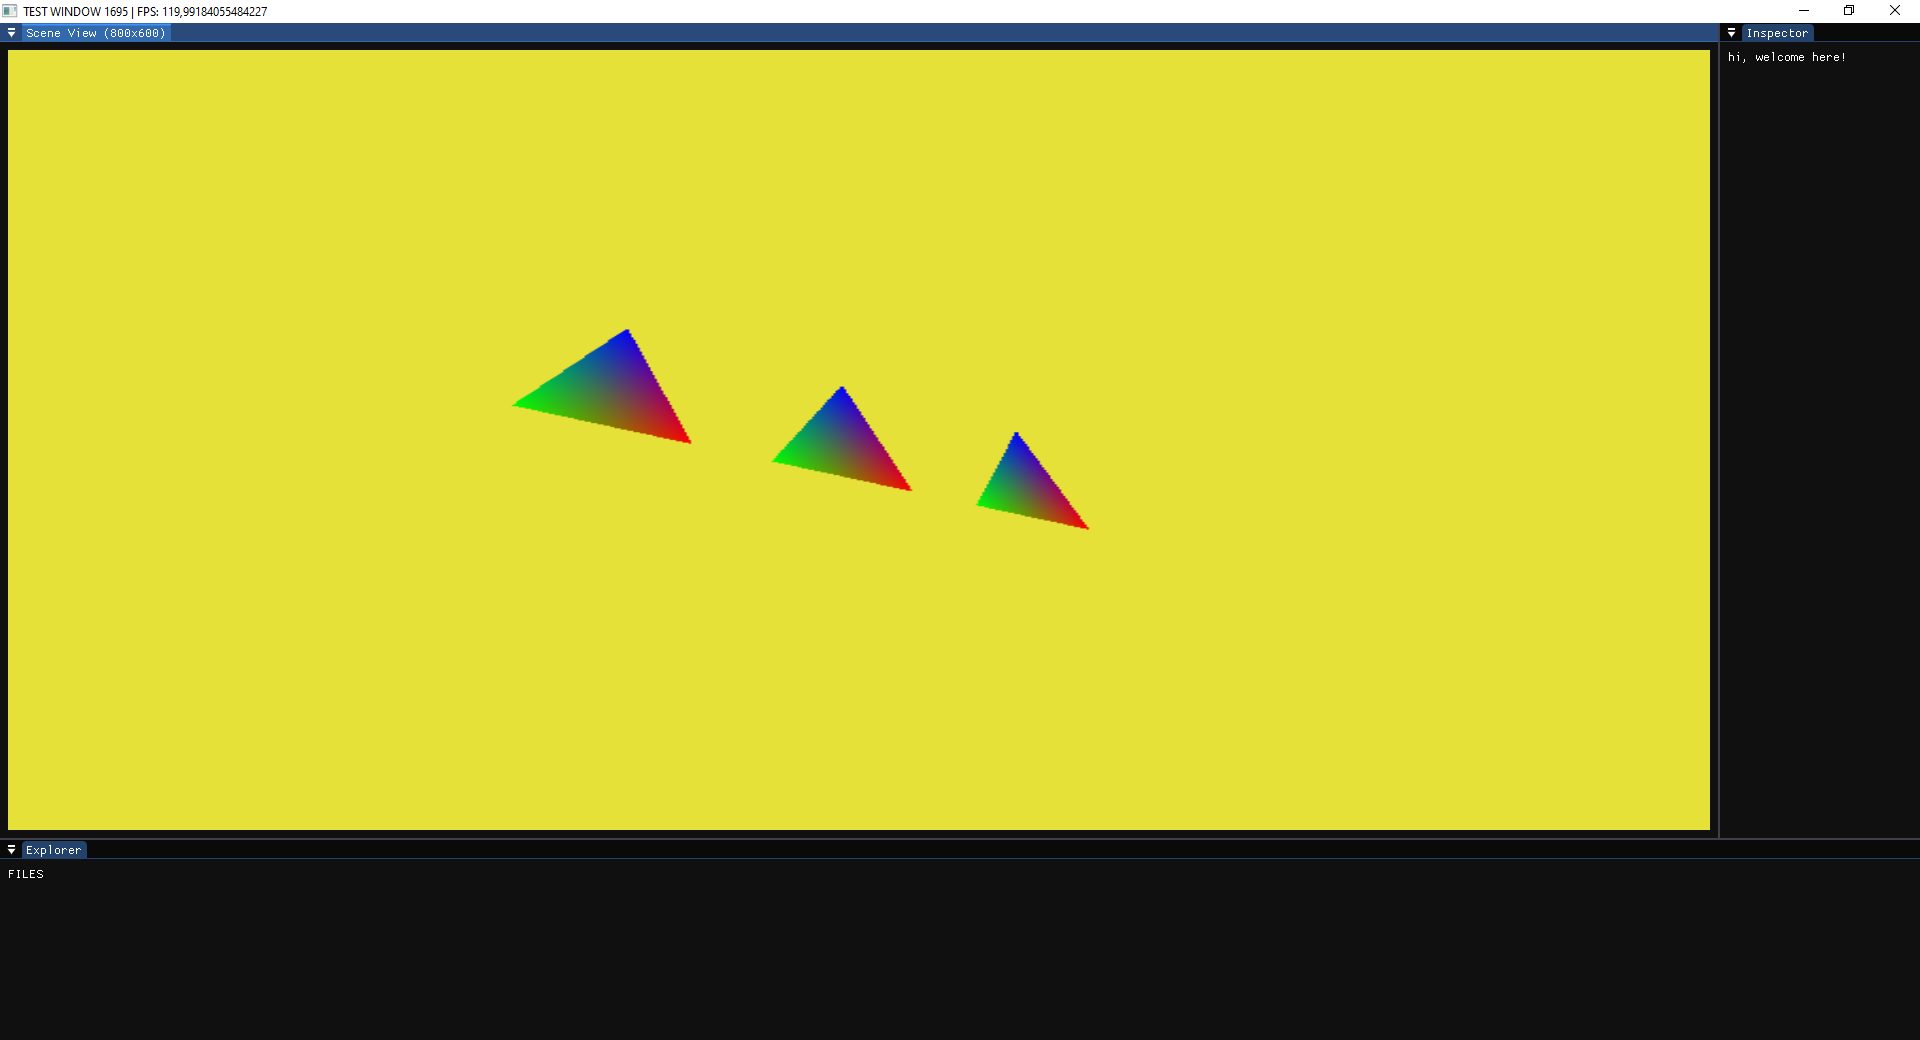
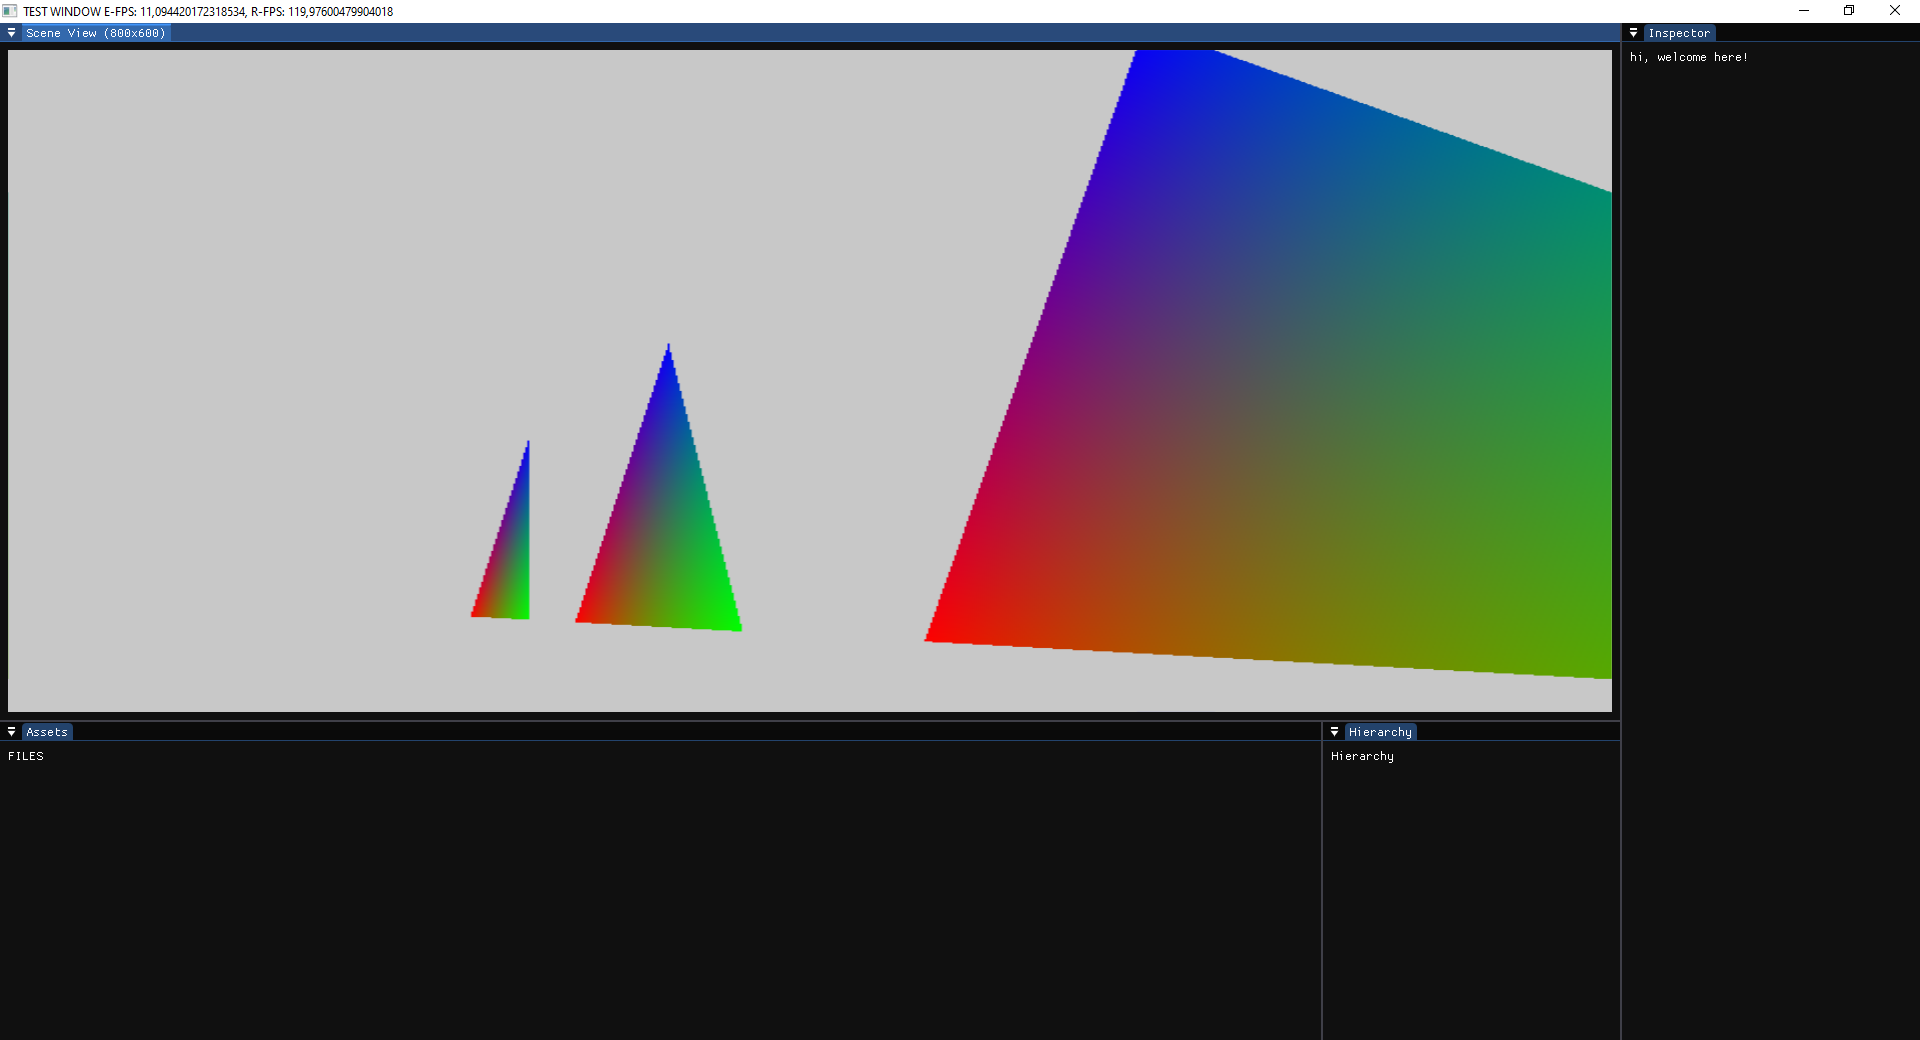
Управление камерой

diff --git a/WoowzEngine/WoowzEngineEditor/WEE/Interface.cs b/WoowzEngine/WoowzEngineEditor/WEE/Interface.cs
@@ -1,7 +1,5 @@
-using System.Numerics;
-using ImGuiNET;
+using ImGuiNET;
 using WLO.Interface;
-using WLO.Math;
 
 namespace WEE;
 
@@ -19,41 +17,56 @@ public static class Interface{
     
     // ----------------------------------------------------------------------
 
-    public static GLImGUI ImGUI;
+    public static GLImGUI ImGUI{ get; private set; } = null!;
 
-    public static Vector2I SceneViewport;
+    public static bool FocusSceneView{ get; private set; }
 
-    private static void StartUpdate(){
-        
-    }
-    
-    private static bool __FirstTime = true;
-    public static void Update(){
-        ImGUI.FrameStart(WEE.Cycle.DT, WEE.Window.MainWindow.Size);
-
-        ImGui.DockSpaceOverViewport();
-        
-        if(__FirstTime){ StartUpdate(); __FirstTime = false; }
-        
-        ImGui.SetNextWindowSize(new Vector2(800, 600), ImGuiCond.FirstUseEver);
+    private static void Update_SceneView(){
+        ImGui.SetNextWindowSize(new System.Numerics.Vector2(800, 600), ImGuiCond.FirstUseEver);
         ImGui.Begin("Scene View (800x600)");
 
-            System.Numerics.Vector2 __SceneViewport = ImGui.GetContentRegionAvail();
-            SceneViewport = new Vector2I((int)__SceneViewport.X, (int)__SceneViewport.Y);
+            FocusSceneView = ImGui.IsWindowFocused(ImGuiFocusedFlags.RootAndChildWindows);
             
+            System.Numerics.Vector2 __SceneViewport = ImGui.GetContentRegionAvail();
+                
             ImGui.Image((IntPtr)WEE.Render.SceneFramebuffer.ID, __SceneViewport, new System.Numerics.Vector2(0, 1), new System.Numerics.Vector2(1, 0));
         
         ImGui.End();
+    }
 
-        ImGui.SetNextWindowSize(new Vector2(200, 600), ImGuiCond.FirstUseEver);
+    private static void Update_Inspector(){
+        ImGui.SetNextWindowSize(new System.Numerics.Vector2(200, 300), ImGuiCond.FirstUseEver);
         ImGui.Begin("Inspector");
-            ImGui.Text("hi, welcome here!");
+         ImGui.Text("hi, welcome here!");
         ImGui.End();
-        
-        ImGui.SetNextWindowSize(new Vector2(800, 200), ImGuiCond.FirstUseEver);
-        ImGui.Begin("Explorer");
+    }
+    
+    private static void Update_Hierarchy(){
+        ImGui.SetNextWindowSize(new System.Numerics.Vector2(200, 300), ImGuiCond.FirstUseEver);
+        ImGui.Begin("Hierarchy");
+            ImGui.Text("Hierarchy");
+        ImGui.End();
+    }
+    
+    private static void Update_Assets(){
+        ImGui.SetNextWindowSize(new System.Numerics.Vector2(800, 200), ImGuiCond.FirstUseEver);
+        ImGui.Begin("Assets");
             ImGui.Text("FILES");
         ImGui.End();
+    }
+    
+    public static void Update(){
+        ImGUI.FrameStart(WEE.Cycle.Render_DT, WEE.Window.MainWindow.Size);
+
+        ImGui.DockSpaceOverViewport();
+        
+        Update_SceneView();
+        
+        Update_Inspector();
+
+        Update_Hierarchy();
+        
+        Update_Assets();
         
         ImGUI.FrameEnd();
     }

diff --git a/WoowzEngine/WoowzEngineEditor/WEE/Cycle.cs b/WoowzEngine/WoowzEngineEditor/WEE/Cycle.cs
@@ -15,25 +15,39 @@ public static class Cycle{
         try{
             WEE.Window.MainWindow.PollEvents();
             
+            if(WL.Thread.LimitByFPS(30, ref __DTI)){
+                Engine_DTI = __DTI!.Value;
+                CycleEngine();
+            }
+            
             if(WL.Thread.LimitByFPS(120, ref __DTI)){
-                DTI = __DTI!.Value;
-                CycleFixed();
+                Render_DTI = __DTI!.Value;
+                CycleRender();
             }
         }catch(Exception e){
             throw new ExceptionWEE("Произошла ошибка в главном цикле!", e);
         }
     }
 
-    public static void CycleFixed(){
+    public static void CycleEngine(){
         try{
+            
+        }catch(Exception e){
+            throw new ExceptionWEE("Произошла ошибка в ENGINE цикле!", e);
+        }
+    }
+    
+    public static void CycleRender(){
+        try{
+            WEE.Editor.UpdateSceneView();
+            
             WEE.Window.MainWindow.PollEvents2();
 
-            DT = (float)DTI.DT;
+            Render_DT = (float)Render_DTI.DT;
 
-            TotalFrames++;
-            Time += DT;
+            Render_Time += Render_DT;
 
-            WEE.Window.MainWindow.Title = $"TEST WINDOW {TotalFrames} | FPS: {DTI.FPS}";
+            WEE.Window.MainWindow.Title = $"TEST WINDOW E-FPS: {Engine_DTI.FPS}, R-FPS: {Render_DTI.FPS}";
             
             WEE.Interface.Update();
             
@@ -41,15 +55,16 @@ public static class Cycle{
             
             WEE.Window.MainWindow.SwapBuffers();
         }catch(Exception e){
-            throw new ExceptionWEE("Произошла ошибка в зафиксированном цикле!", e);
+            throw new ExceptionWEE("Произошла ошибка в RENDER цикле!", e);
         }
     }
     
     // ----------------------------------------------------------------------
 
-    public static DeltaTimeInfo DTI;
-    public static float         DT;
+    public static DeltaTimeInfo Render_DTI;
+    public static DeltaTimeInfo Engine_DTI;
     
-    public static int           TotalFrames;
-    public static float         Time;
+    public static float         Render_DT;
+    
+    public static float         Render_Time;
 }

diff --git a/WoowzEngine/WoowzEngineEditor/WEE/Render.cs b/WoowzEngine/WoowzEngineEditor/WEE/Render.cs
@@ -34,7 +34,7 @@ public static class Render{
         
         WE.Render.API.FrameStart();
             
-            WE.Render.API.Clear(new Color4B((byte)Random.Shared.Next(0, 255), (byte)Random.Shared.Next(0, 255), (byte)Random.Shared.Next(0, 255)));
+            WE.Render.API.Clear(new Color4B(200, 200, 200));
                 
             __RENDERTESTRENDER();
             
@@ -65,7 +65,6 @@ public static class Render{
     // TODO, TEST RENDER
 
     private static Scene  __SCENE;
-    private static Camera __CAMERA;
     
     private static GLProgram __PROGRAM;
     private static GLMesh    __MESH;
@@ -75,8 +74,6 @@ public static class Render{
     
     public static void __STARTTESTRENDER(){
         __SCENE = new Scene();
-
-        __CAMERA = new Camera();
         
         
         __PROGRAM = (GLProgram)WE.Render.API.CreateProgram(
@@ -134,28 +131,12 @@ void main() {
     }
 
     public static void __RENDERTESTRENDER(){
-        float YAW = WEE.Cycle.Time * 1.5f;
-        float PITCH = (float)System.Math.Sin(WEE.Cycle.Time * 0.8f) * 0.7f;
-        float RADIUS = 7 + (float)System.Math.Sin(WEE.Cycle.Time * 0.4f) * 2;
+        float YAW = WEE.Cycle.Render_Time * 1.5f;
+        float PITCH = (float)System.Math.Sin(WEE.Cycle.Render_Time * 0.8f) * 0.7f;
+        float RADIUS = 5 + (float)System.Math.Sin(WEE.Cycle.Render_Time * 0.4f) * 2;
 
-        __CAMERA.Position = new Vector3F(
-            RADIUS * (float)System.Math.Cos(PITCH) * (float)System.Math.Sin(YAW),
-            RADIUS * (float)System.Math.Sin(PITCH),
-            RADIUS * (float)System.Math.Cos(PITCH) * (float)System.Math.Cos(YAW)
-        );
-
-        __CAMERA.Rotation = new Vector3F(
-            PITCH,
-            -YAW,
-            (float)System.Math.Cos(WEE.Cycle.Time) * 0.2f
-        );
-        
-        
-        
-        
-        
         WE.Render.API.DepthTest = true;
         
-        __SCENE.Render(__CAMERA, __UNIFORM_VPROJ, __UNIFORM_MPROJ);
+        __SCENE.Render(WEE.Editor.SceneViewCamera, __UNIFORM_VPROJ, __UNIFORM_MPROJ);
     }
 }

diff --git a/WoowzEngine/WoowzEngineEditor/WEE/Editor.cs b/WoowzEngine/WoowzEngineEditor/WEE/Editor.cs
@@ -1,0 +1,46 @@
+using Silk.NET.Input;
+using WEO;
+using WLI_Input;
+using WLO.Math;
+
+namespace WEE;
+
+public static class Editor{
+    public static Camera SceneViewCamera = new Camera();
+
+    public static float CameraSpeed       = 5f  ;
+    public static float CameraSensitivity = 0.5f;
+    
+    public static void UpdateSceneView(){
+        if(WEE.Interface.FocusSceneView){
+            UpdateCameraControls();    
+        }
+    }
+
+    public static void UpdateCameraControls(){
+        float DT = (float)WEE.Cycle.Render_DT;
+        WLI_Input.Keyboard Keyboard = WEE.Window.MainWindow.Keyboard;
+        WLI_Input.Mouse    Mouse    = WEE.Window.MainWindow.Mouse;
+
+        if(Mouse.IsButtonDown(Mouse.Button.Right)){
+            Vector2I MouseDelta = Mouse.Delta;
+
+            SceneViewCamera.Rotation.Y += MouseDelta.X * CameraSensitivity * DT;
+            SceneViewCamera.Rotation.X += MouseDelta.Y * CameraSensitivity * DT;
+        }
+
+        Vector3F MoveDirection = new Vector3F();
+
+        if(Keyboard.IsKeyDown(Keyboard.Key.W)){ MoveDirection += SceneViewCamera.Forward; }
+        if(Keyboard.IsKeyDown(Keyboard.Key.S)){ MoveDirection -= SceneViewCamera.Forward; }
+        if(Keyboard.IsKeyDown(Keyboard.Key.D)){ MoveDirection += SceneViewCamera.Right; }
+        if(Keyboard.IsKeyDown(Keyboard.Key.A)){ MoveDirection -= SceneViewCamera.Right; }
+        
+        if(Keyboard.IsKeyDown(Keyboard.Key.Space   )){ MoveDirection += new Vector3F(0, 1, 0); }
+        if(Keyboard.IsKeyDown(Keyboard.Key.ControlL)){ MoveDirection -= new Vector3F(0, 1, 0); }
+
+        if(MoveDirection.Length > 0){
+            SceneViewCamera.Position += MoveDirection.Normalized * CameraSpeed * DT;
+        }
+    }
+}

diff --git a/WoowzEngine/WoowzEngine/WEO/Camera.cs b/WoowzEngine/WoowzEngine/WEO/Camera.cs
@@ -11,6 +11,23 @@ public class Camera{
     public float Near   = 0.1f;
     public float Far    = 1000;
 
+    // todo, перенести куда нибудь
+    public Vector3F Forward{
+        get{
+            float Pitch = Rotation.X;
+            float Yaw = Rotation.Y;
+            return new Vector3F(
+                (float)(System.Math.Sin(Yaw) * System.Math.Cos(Pitch)),
+                (float)(-System.Math.Sin(Pitch)),
+                (float)(-System.Math.Cos(Yaw) * System.Math.Cos(Pitch))
+            ).Normalized;
+        }
+    }
+
+    public Vector3F Right => Vector3F.Cross(Forward, new Vector3F(0, 1, 0)).Normalized;
+    
+    public Vector3F Up => Vector3F.Cross(Right, Forward).Normalized;
+
     public Matrix4F GetViewMatrix() => Matrix4F.CreateRotationX(Rotation.X) *
                                        Matrix4F.CreateRotationY(Rotation.Y) *
                                        Matrix4F.CreateRotationZ(Rotation.Z) *
